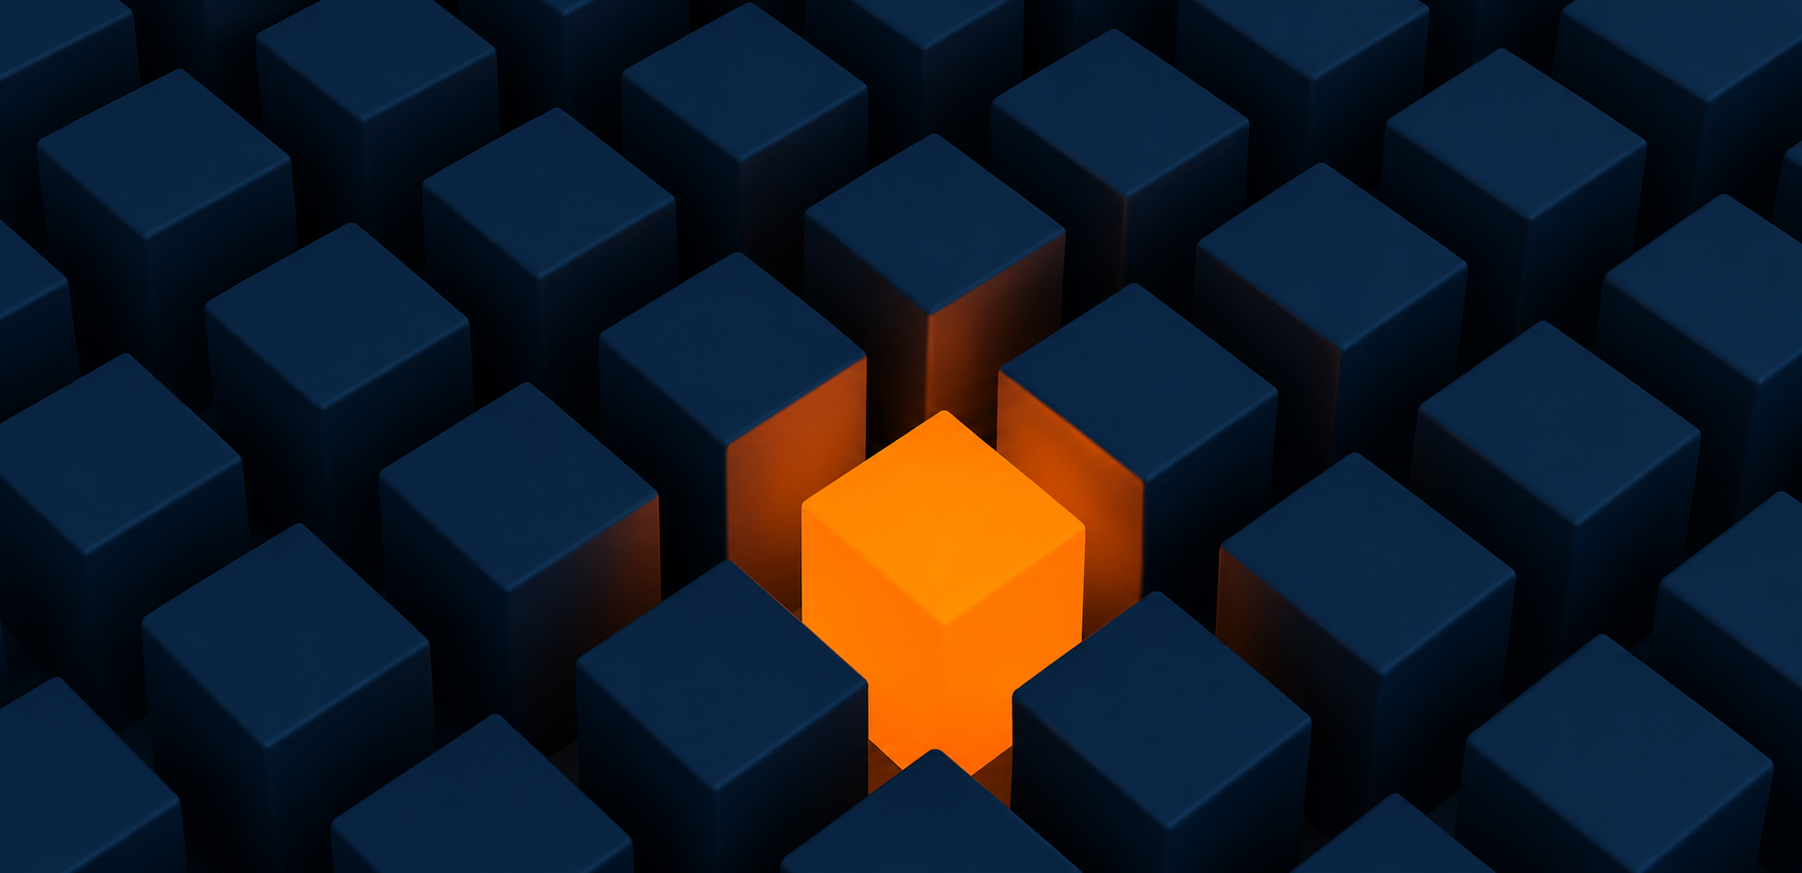
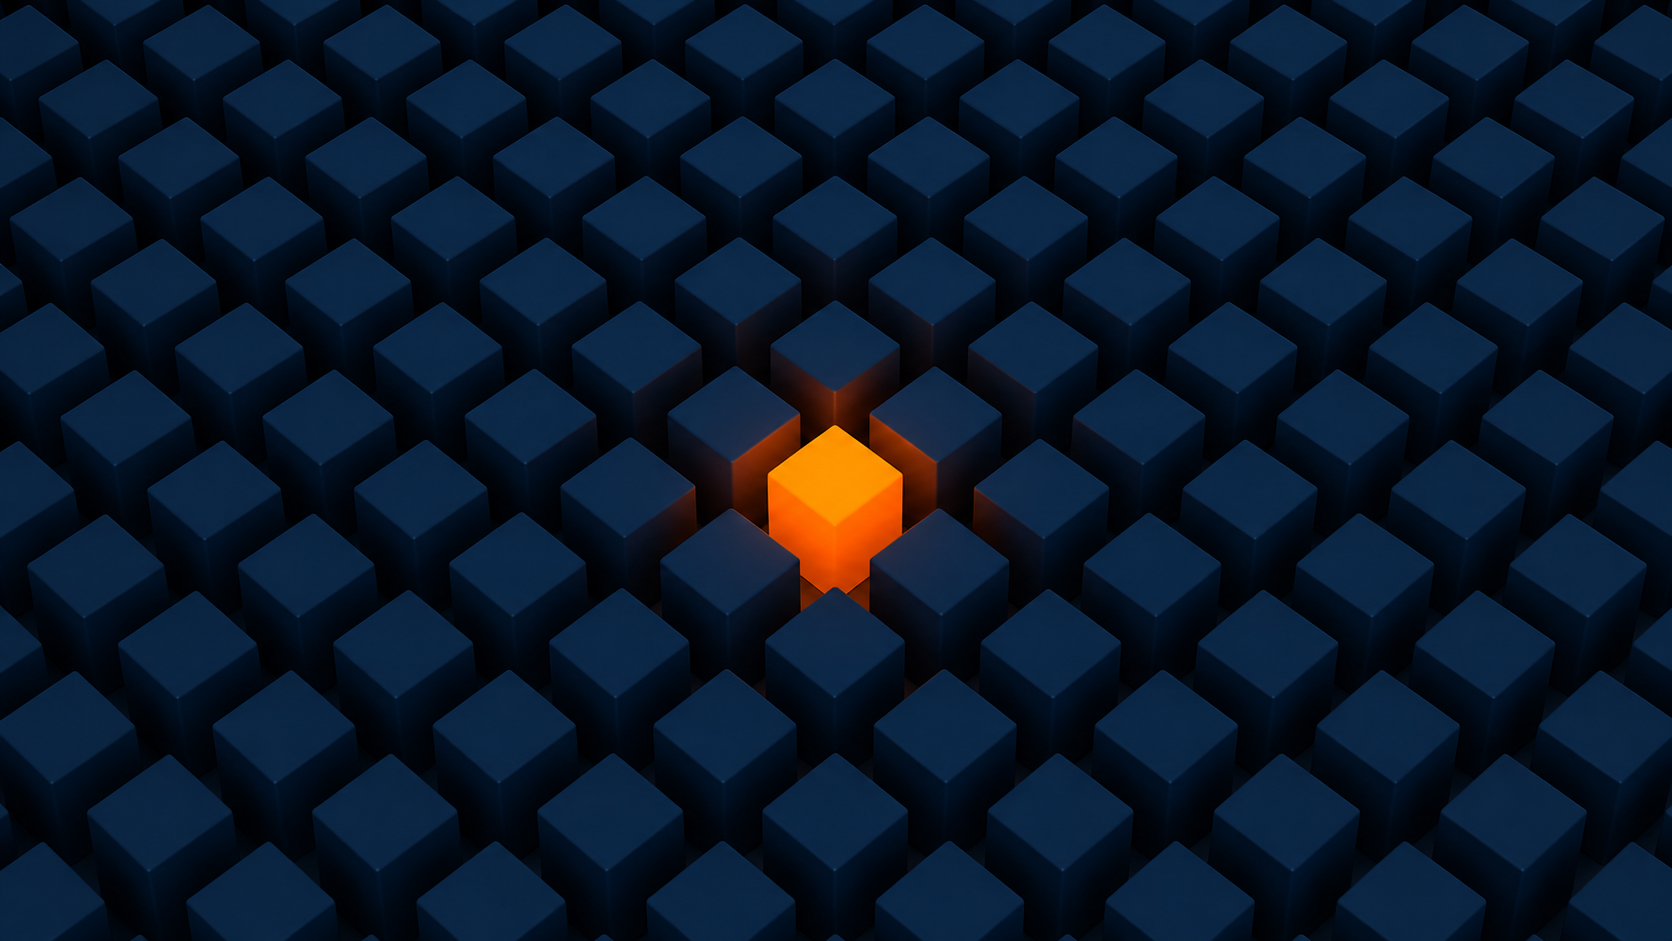
Fix parallax direction, new hero image, UI polish

diff --git a/index.html b/index.html
@@ -447,7 +447,7 @@
   <section id="hero">
 
     <!-- Background image -->
-    <div id="hero-parallax" style="position:absolute; inset:-30% -5%; background: url('hero-bg.png') center center / cover no-repeat; pointer-events:none; will-change:transform; z-index:0;"></div>
+    <div id="hero-parallax" style="position:absolute; inset:-30% -5%; background: url('hero-bg.png') center center / cover no-repeat; pointer-events:none; will-change:transform; z-index:0; transform:translateY(60px);"></div>
     <div id="hero-darken" style="position:absolute; inset:0; background:#000; opacity:0; pointer-events:none; z-index:1; transition:none;"></div>
 
     <!-- Hero text — fades out as Scale. expands -->
@@ -1355,7 +1355,7 @@
       if (heroBg && heroSection) {
         const heroH = heroSection.offsetHeight;
         if (st < heroH) {
-          heroBg.style.transform = 'translateY(' + (st * 0.35) + 'px)';
+          heroBg.style.transform = 'translateY(' + (60 - st * 0.35) + 'px)';
         }
       }
 